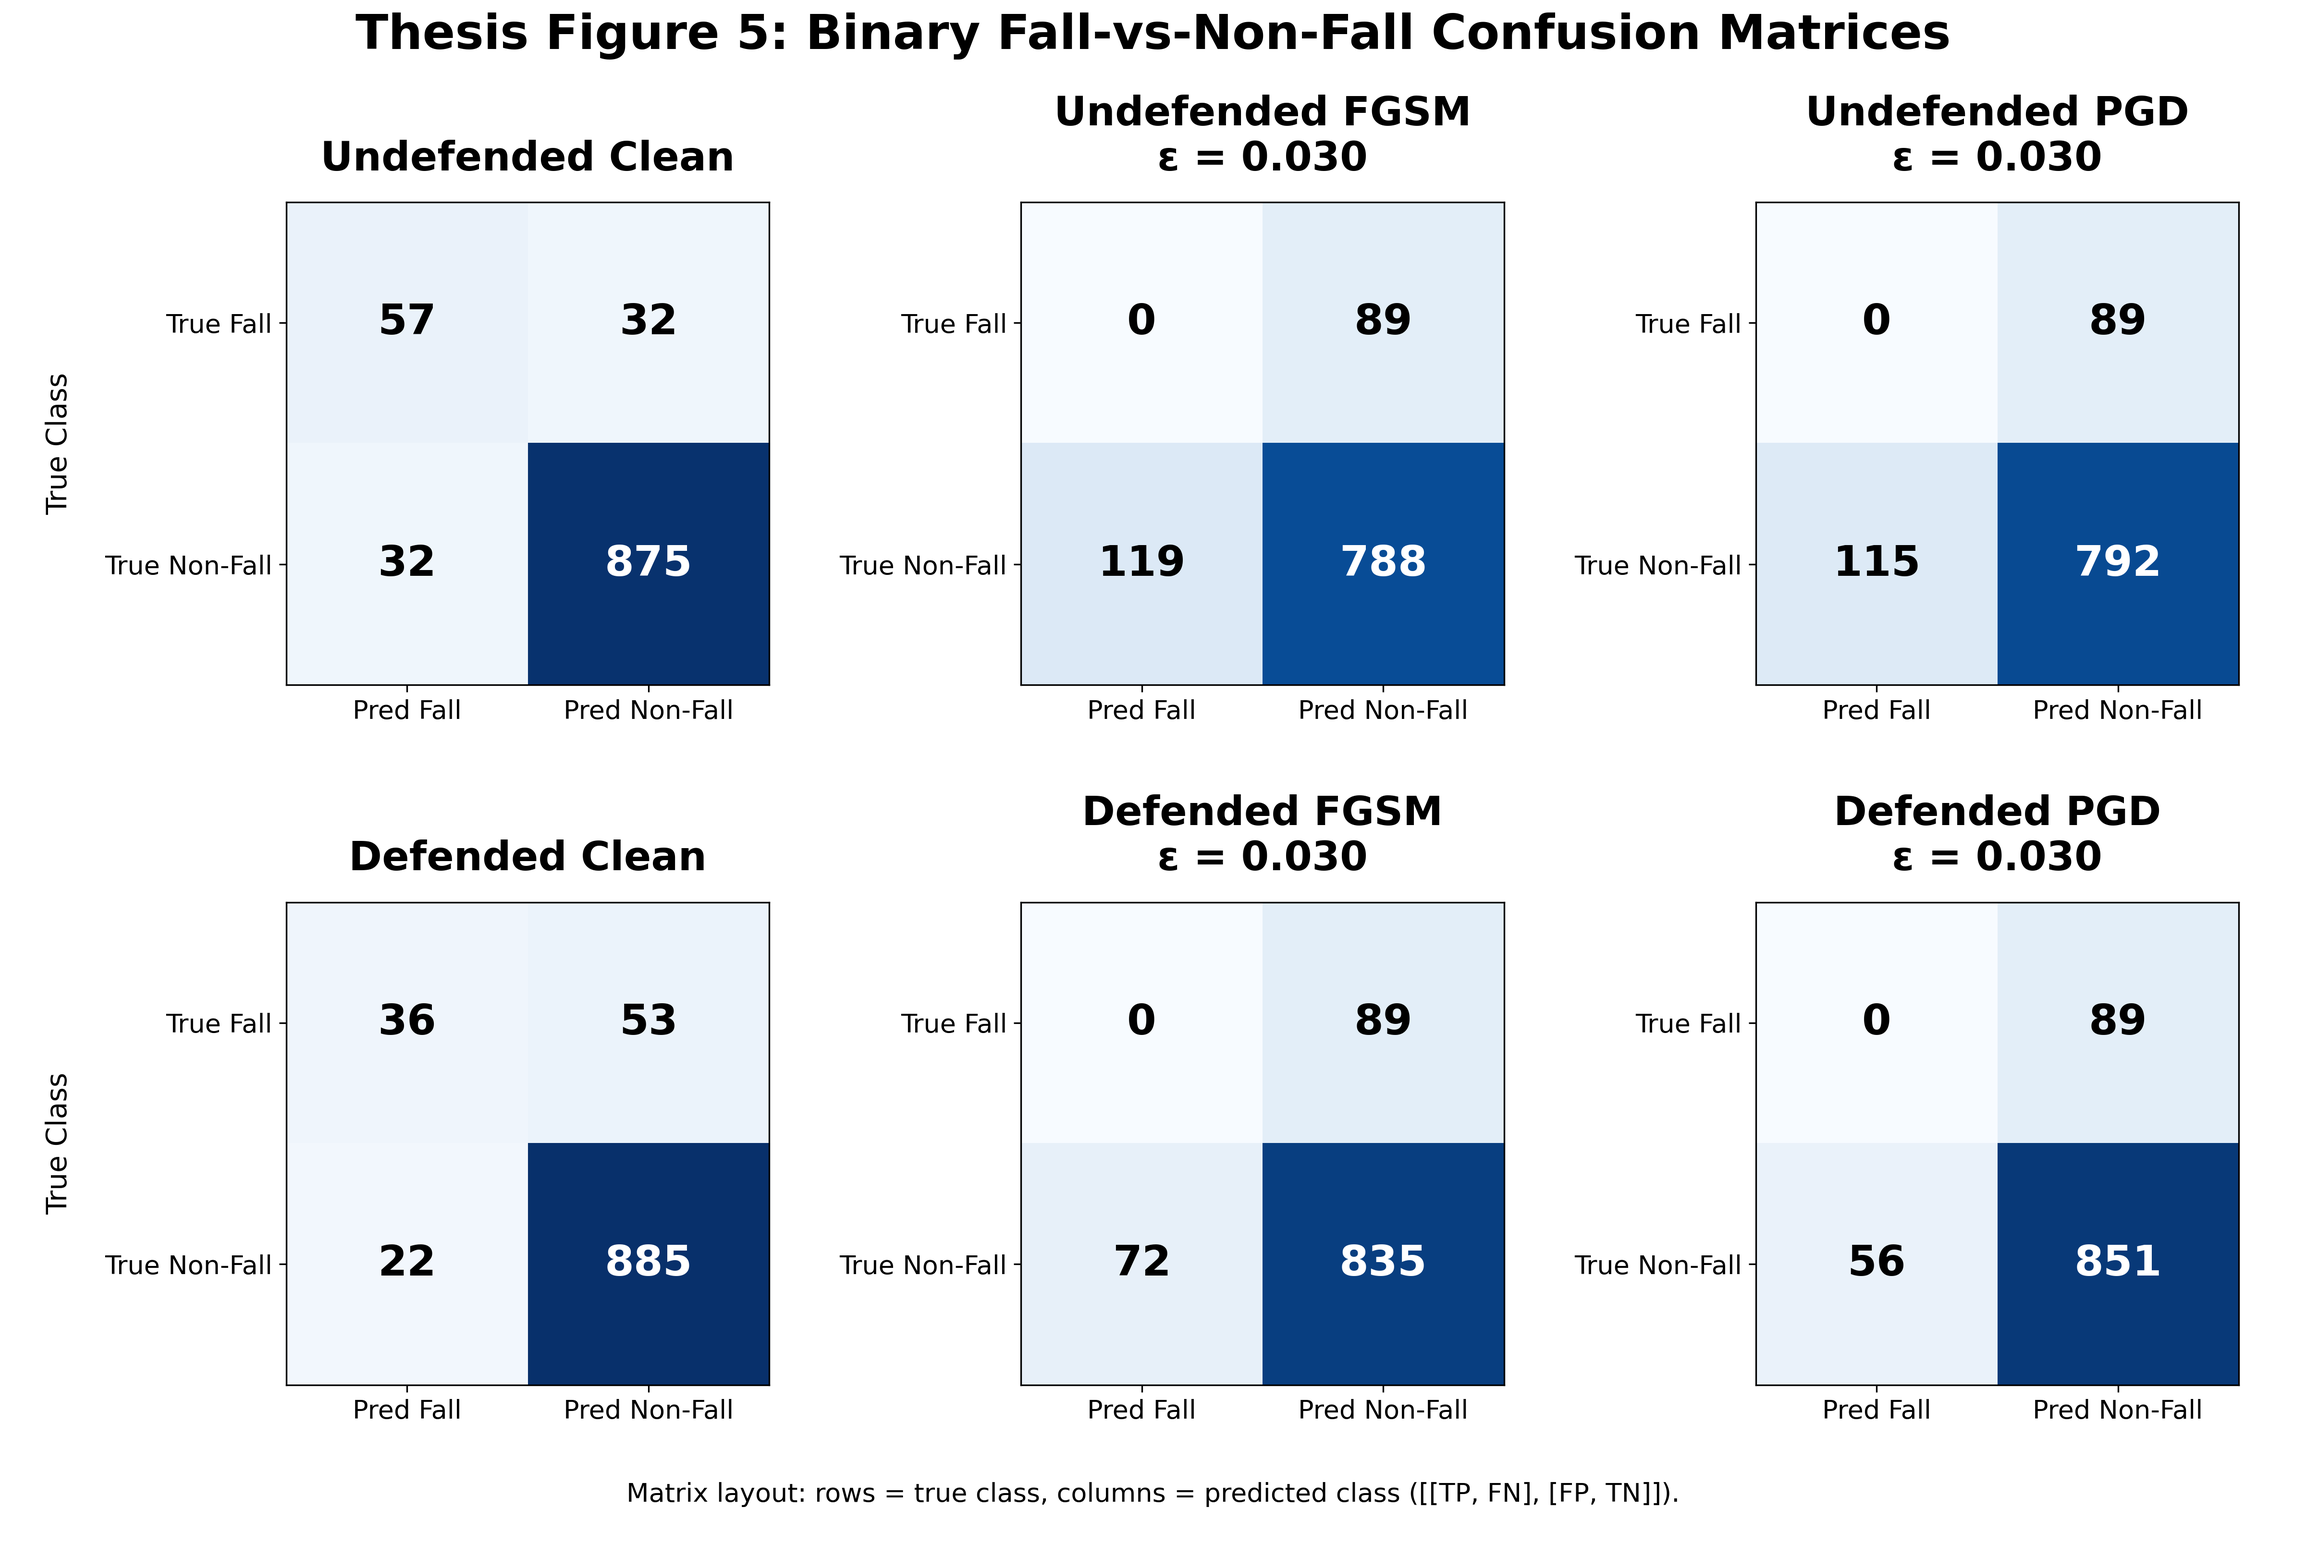
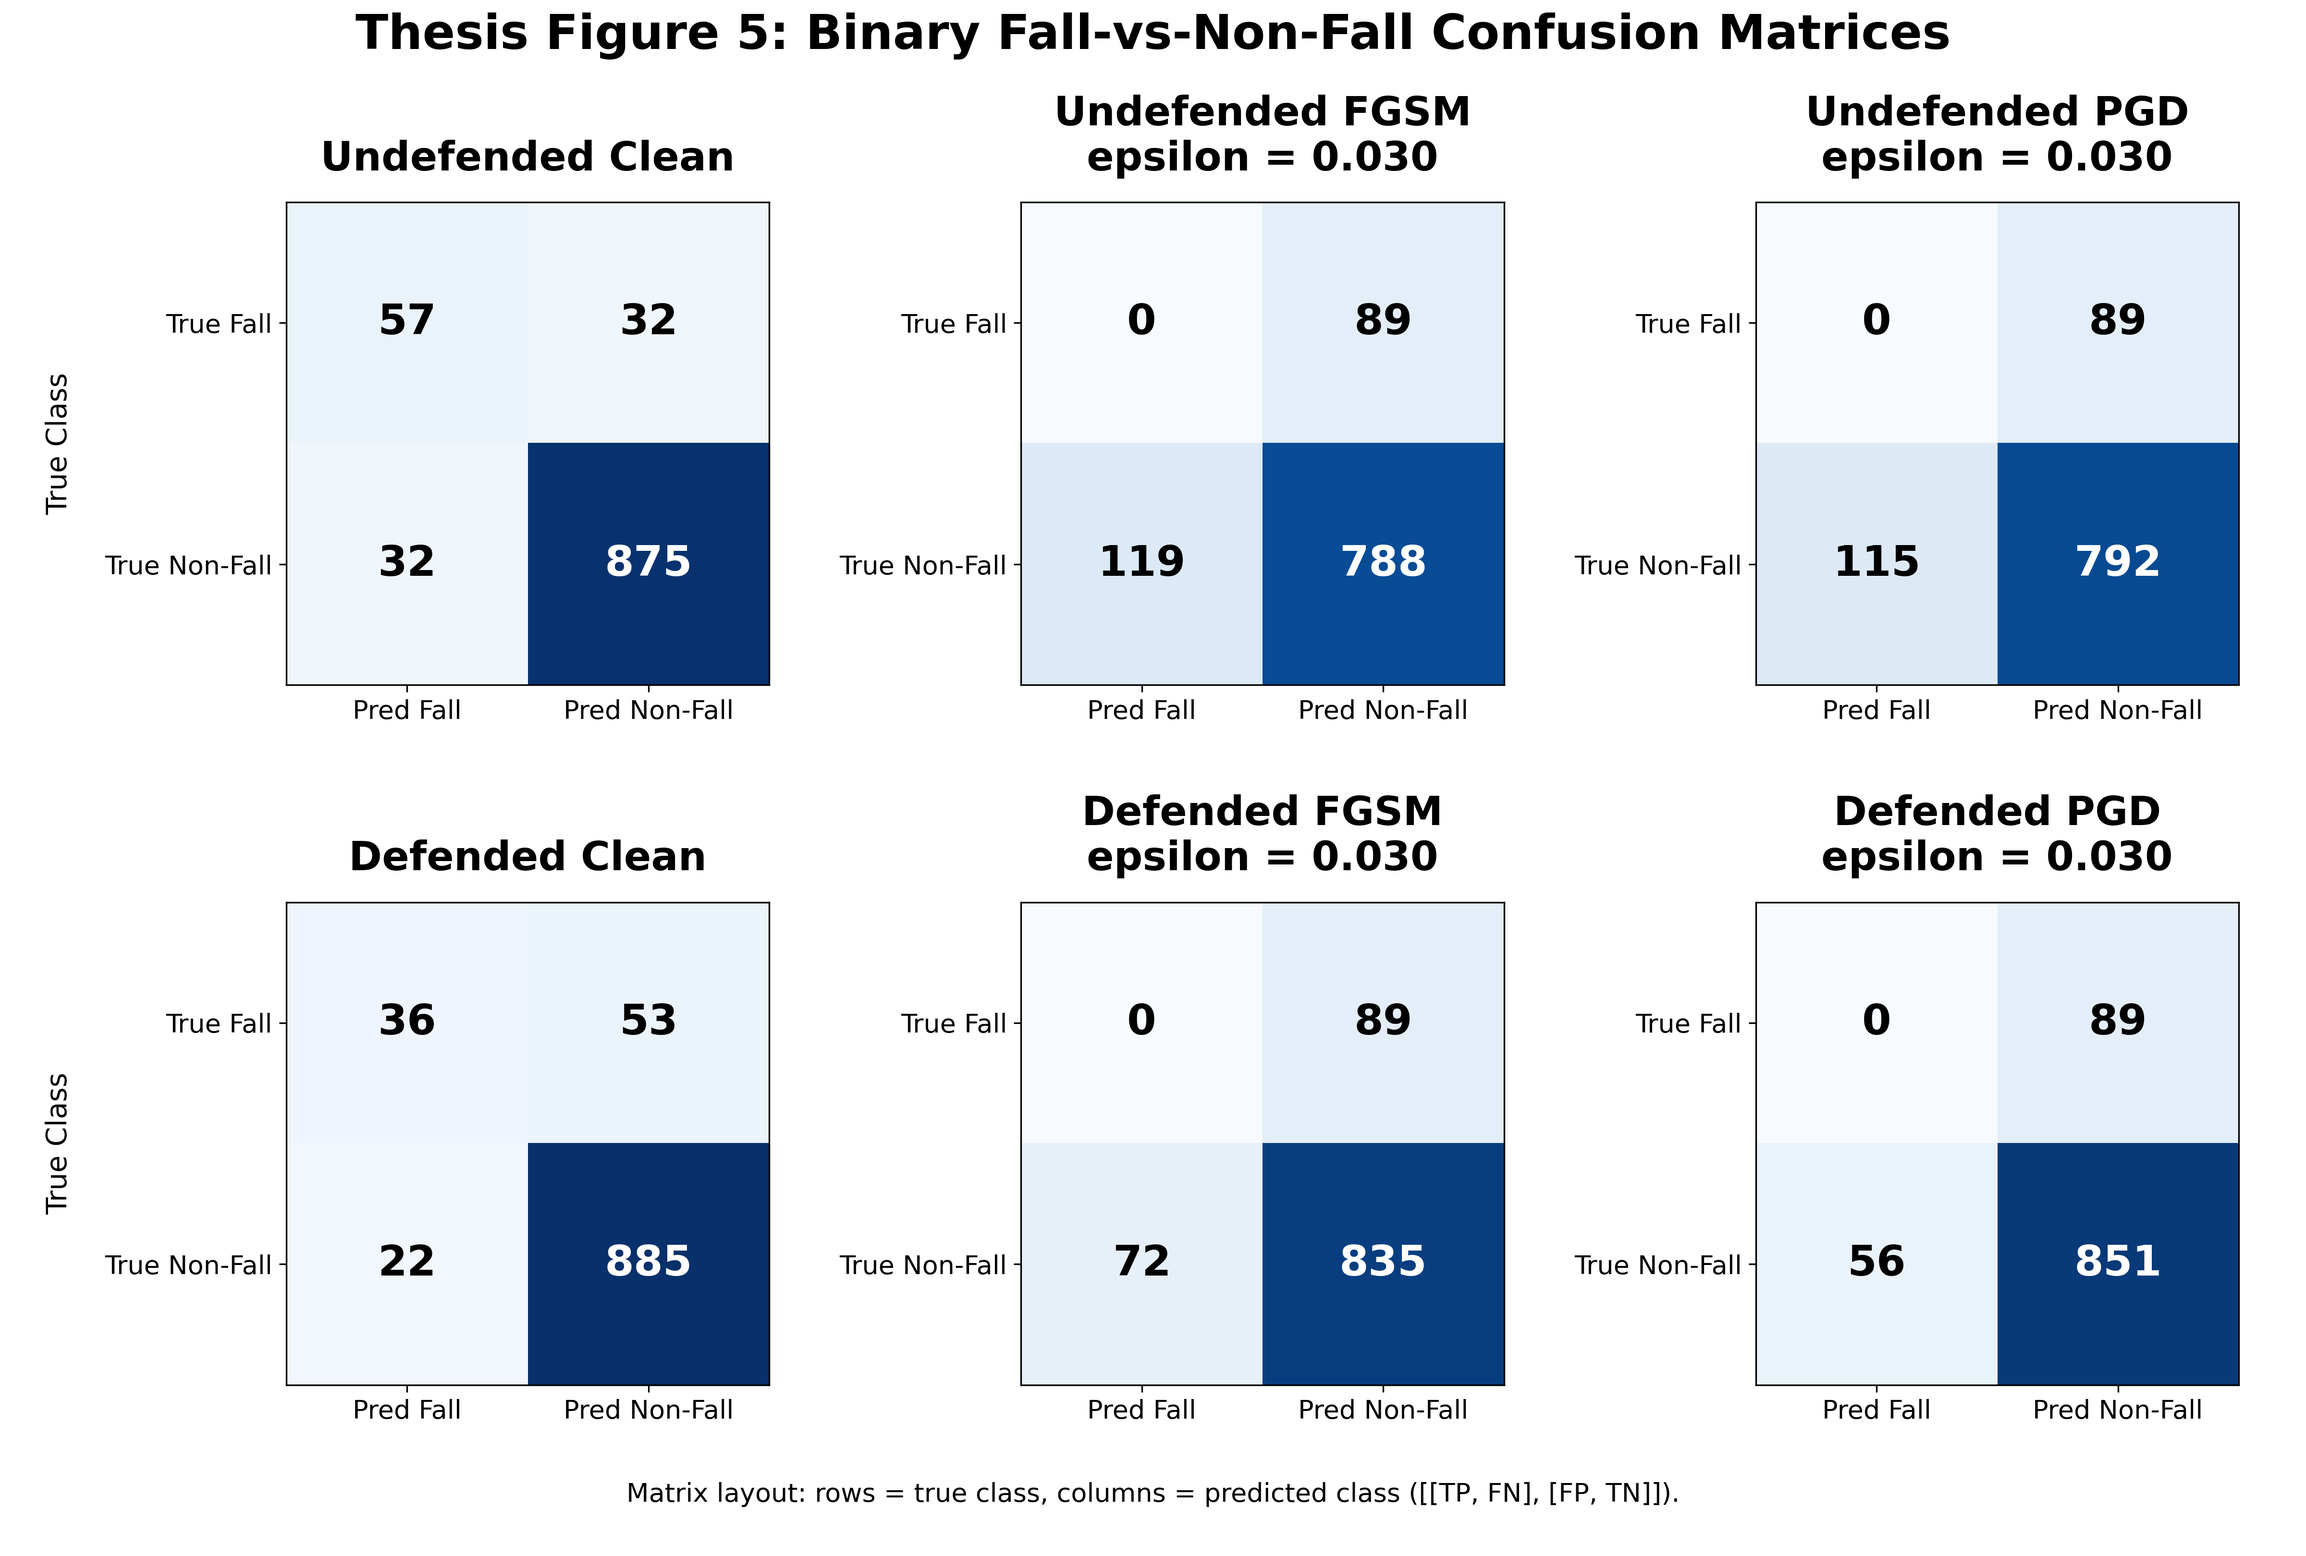
Polish thesis figure 5 confusion matrices

diff --git a/experiments/fall_detection_attack_safety_demo/scripts/create_thesis_figure_5_confusion_matrices.py b/experiments/fall_detection_attack_safety_demo/scripts/create_thesis_figure_5_confusion_matrices.py
@@ -64,11 +64,11 @@ CONDITION_ORDER = [
     },
     {
         "condition": "undefended_fgsm_epsilon_0_03",
-        "title": "Undefended FGSM\nε = 0.030",
+        "title": "Undefended FGSM\nepsilon = 0.030",
     },
     {
         "condition": "undefended_pgd_epsilon_0_03",
-        "title": "Undefended PGD\nε = 0.030",
+        "title": "Undefended PGD\nepsilon = 0.030",
     },
     {
         "condition": "defended_clean",
@@ -76,11 +76,11 @@ CONDITION_ORDER = [
     },
     {
         "condition": "defended_fgsm_epsilon_0_03",
-        "title": "Defended FGSM\nε = 0.030",
+        "title": "Defended FGSM\nepsilon = 0.030",
     },
     {
         "condition": "defended_pgd_epsilon_0_03",
-        "title": "Defended PGD\nε = 0.030",
+        "title": "Defended PGD\nepsilon = 0.030",
     },
 ]
 

diff --git a/experiments/fall_detection_attack_safety_demo/notes/thesis_figure_5_confusion_matrices.md b/experiments/fall_detection_attack_safety_demo/notes/thesis_figure_5_confusion_matrices.md
@@ -22,11 +22,11 @@ This is a research implementation using window-level safety-proxy metrics and so
 | Condition | TP | FN | FP | TN | Recall/Sensitivity | Missed Fall Rate | Precision | F1-Score | Balanced Accuracy |
 |---|---:|---:|---:|---:|---:|---:|---:|---:|---:|
 | Undefended Clean | 57 | 32 | 32 | 875 | 0.6404 | 0.3596 | 0.6404 | 0.6404 | 0.8026 |
-| Undefended FGSM ε = 0.030 | 0 | 89 | 119 | 788 | 0.0000 | 1.0000 | 0.0000 | 0.0000 | 0.4344 |
-| Undefended PGD ε = 0.030 | 0 | 89 | 115 | 792 | 0.0000 | 1.0000 | 0.0000 | 0.0000 | 0.4366 |
+| Undefended FGSM epsilon = 0.030 | 0 | 89 | 119 | 788 | 0.0000 | 1.0000 | 0.0000 | 0.0000 | 0.4344 |
+| Undefended PGD epsilon = 0.030 | 0 | 89 | 115 | 792 | 0.0000 | 1.0000 | 0.0000 | 0.0000 | 0.4366 |
 | Defended Clean | 36 | 53 | 22 | 885 | 0.4045 | 0.5955 | 0.6207 | 0.4898 | 0.6901 |
-| Defended FGSM ε = 0.030 | 0 | 89 | 72 | 835 | 0.0000 | 1.0000 | 0.0000 | 0.0000 | 0.4603 |
-| Defended PGD ε = 0.030 | 0 | 89 | 56 | 851 | 0.0000 | 1.0000 | 0.0000 | 0.0000 | 0.4691 |
+| Defended FGSM epsilon = 0.030 | 0 | 89 | 72 | 835 | 0.0000 | 1.0000 | 0.0000 | 0.0000 | 0.4603 |
+| Defended PGD epsilon = 0.030 | 0 | 89 | 56 | 851 | 0.0000 | 1.0000 | 0.0000 | 0.0000 | 0.4691 |
 
 ## Interpretation
 
